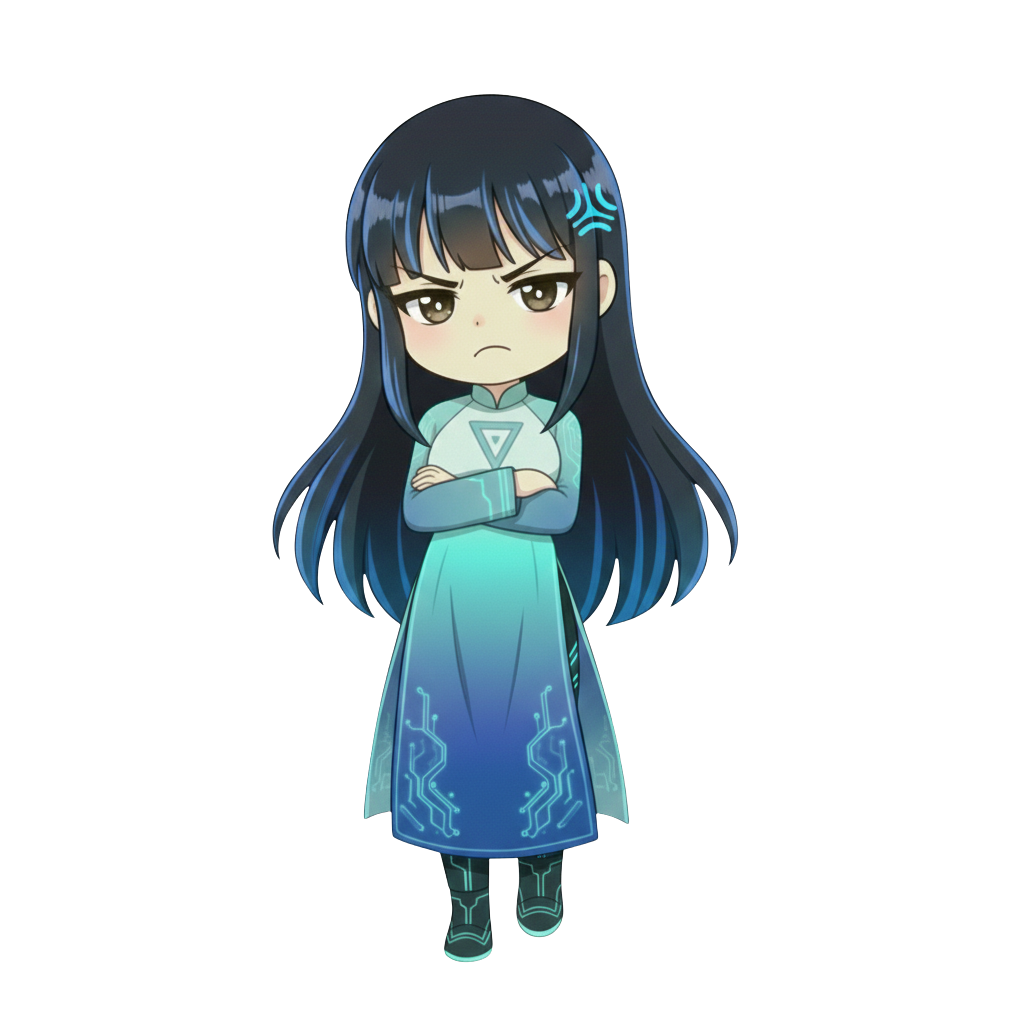
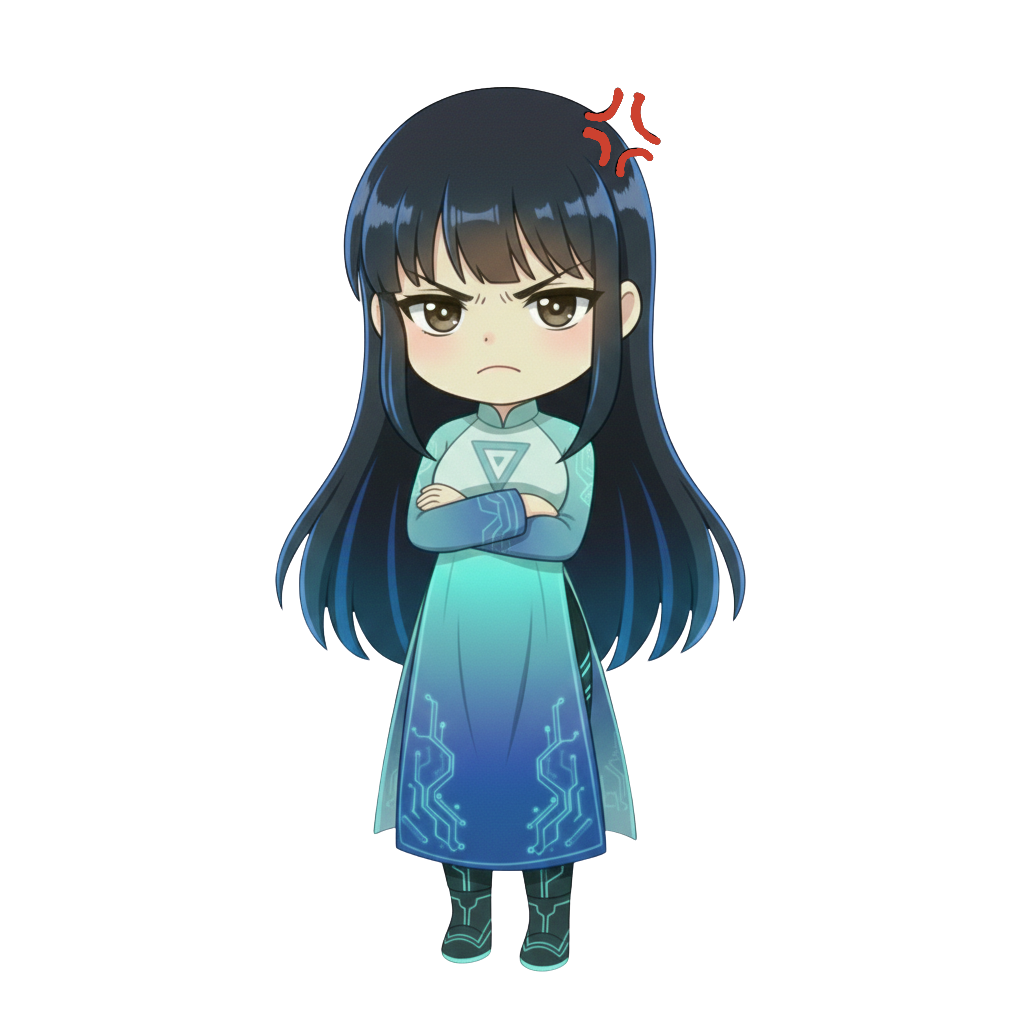
added Tessera, fixed theorems

Changed region(s): [[0.25, 0.0625, 0.75, 0.9688], [0.4062, 0.0938, 0.4375, 0.125]]

diff --git a/Mathematics/Calculus/limit_convergence.html b/Mathematics/Calculus/limit_convergence.html
@@ -232,10 +232,70 @@ noindex: true
 
                 </div>
 
-                 <p>
-                    Note that any subsequence of a convergent sequence converges to the same limit as the parent sequence. 
-                    Convergence is robust against any infinite sub-sampling and always identifies a single, well-defined limit.
+
+                <div class="theorem">
+                    <span class="theorem-title">Theorem: Convergence of Subsequences</span>
+                    <p>
+                        Let \(\{x_n\}\) be a sequence in a metric space \(X\). If \(\{x_n\}\) converges to \(w \in X\), 
+                        then every subsequence \(\{x_{n_k}\}\) of \(\{x_n\}\) also converges to \(w\).
+                    </p>
+                </div>
+
+                <p>
+                    This theorem states that convergence is <strong>invariant</strong> under any infinite sub-sampling. 
+                    Whether we monitor every single iterate or only record the state every 100 epochs, the identified limit 
+                    remains the same.
                 </p>
+
+                 <div class="insight-box">
+                    <h3>Insight: Consistency Across Observations</h3>
+                    <p>
+                        In practical machine learning, we rarely inspect every single update of a high-frequency optimizer. 
+                        Instead, we "sample" the model's performance at specific intervals.
+                    </p>
+                    <ul>
+                        <li>
+                            <strong>Robustness to Checkpointing:</strong> This property guarantees that the "limit" we 
+                            observe through periodic checkpoints is mathematically identical to the true limit of the 
+                            continuous training process.
+                        </li>
+                        <li>
+                            <strong>Avoiding Inconsistency:</strong> If a sequence were to have subsequences converging 
+                            to different limits, our evaluation results would depend entirely on <em>when</em> we 
+                            measured the performance — a nightmare for reproducibility. Convergence prevents this 
+                            "mode-switching" instability.
+                        </li>
+                    </ul>
+                </div>
+
+                <div class="theorem">
+                    <span class="theorem-title">Theorem: Convergence in Subspaces</span>
+                    <p>
+                        Let \((X, d)\) be a metric space and \(Y \subseteq X\) be a metric subspace. 
+                        A sequence \(\{x_n\} \subseteq Y\) converges to \(L \in Y\) if and only if 
+                        it converges to \(w\) as a sequence in the larger space \(X\).
+                    </p>
+                </div>
+
+                <div class="insight-box">
+                    <h3>Insight: Why Subspaces Matter in ML</h3>
+                    <p>
+                        We often constrain parameters to a subset \(Y\) (e.g., via weight clipping). 
+                        The critical question is whether the limit \(L\) stays within our allowed region \(Y\).
+                    </p>
+                    <ul>
+                        <li>
+                            <strong>Closed Subsets:</strong> If our constraint set \(Y\) is <strong>closed</strong> in \(\mathbb{R}^n\), 
+                            any sequence that converges in the larger space \(\mathbb{R}^n\) is guaranteed 
+                            to have its limit in \(Y\).
+                        </li>
+                        <li>
+                            <strong>Numerical Instability:</strong> The set of floating-point numbers \(\mathbb{F} \subseteq \mathbb{R}\) 
+                            is a discrete subspace. A sequence might "converge" in \(\mathbb{R}\), but its limit 
+                            may not exist in \(\mathbb{F}\), leading to rounding errors or numerical instability.
+                        </li>
+                    </ul>
+                </div>
 
             </section>  
 

diff --git a/map/compass.html b/map/compass.html
@@ -694,6 +694,7 @@
         <img id="tessera-wave" src="../images/tessera/tessera_wave.png" alt="Tessera waving" class="active">
         <img id="tessera-idle" src="../images/tessera/tessera_idle.png" alt="Tessera thinking">
         <img id="tessera-frustrated" src="../images/tessera/tessera_frustrated.png" alt="Tessera frustrated">
+        <img id="tessera-anger" src="../images/tessera/tessera_anger.png" alt="Tessera anger">
         <img id="tessera-excited" src="../images/tessera/tessera_excited.png" alt="Tessera excited">
         <img id="tessera-confident" src="../images/tessera/tessera_confident.png" alt="Tessera confident">
         <img id="tessera-proud" src="../images/tessera/tessera_proud.png" alt="Tessera proud">
@@ -816,7 +817,8 @@ const tesseraClickReactions = [
     { expression: 'surprised', message: "Wow, you really like clicking me! I'm Tessera, your guide." },
     { expression: 'calm', message: "Just browsing? That's okay, I'll be here when you need me." },
     { expression: 'laughing', message: "H-hey! That tickles!" },
-    { expression: 'frustrated', message: "Okay okay, I get it! Go explore the map already!" }
+    { expression: 'frustrated', message: "Okay okay, I get it! Go explore the map already!" },
+    { expression: 'anger', message: "...You really don't know when to stop, do you?" }
 ];
 
 // Default Tessera messages (can be overridden by curriculum.json tesseraMessage field)
@@ -1016,6 +1018,7 @@ function setTesseraExpression(expression) {
         wave: document.getElementById('tessera-wave'),
         idle: document.getElementById('tessera-idle'),
         frustrated: document.getElementById('tessera-frustrated'),
+        anger: document.getElementById('tessera-anger'),
         excited: document.getElementById('tessera-excited'),
         confident: document.getElementById('tessera-confident'),
         proud: document.getElementById('tessera-proud'),
